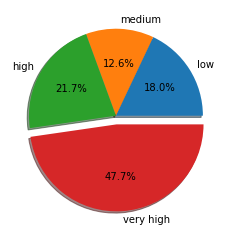
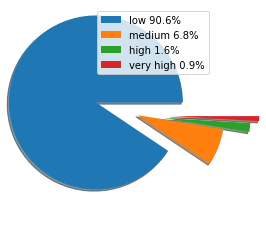
improved exposure section (Ale)

diff --git a/exposure.html b/exposure.html
@@ -5,11 +5,13 @@
 	Free for personal and commercial use under the CCA 3.0 license (html5up.net/license)
 
   TO DO LIST:
-  -change color of the pie plots to match maps
+  -change color of the pie plots to match maps    V
   -change pop map
   -put text conclusions 
   -create fb group page and put reference in each footer
-  -add a legend to the susceptibility reclassified
+  -add a legend to the susceptibility reclassified        V
+  -add a graph near conclusions to show the increasing of low risk population
+  -add popup to show the risk level and the number of people living there
 -->
 <html>
     <head>
@@ -48,9 +50,13 @@
         content="width=device-width, initial-scale=1, user-scalable=no"
       />
       <link rel="stylesheet" href="assets/css/main.css" />
+
+      <!-- my libraries -->
+      <script type="text/javascript" src="myfunctions.js"></script>
     </head>
   <body class="is-preload">
     <div id="page-wrapper">
+
       <!-- Header -->
       <header id="header">
         <div class="logo container">
@@ -99,76 +105,85 @@
                   </header>
 
                   <section>
+                    <div id="ShowLegend" style="width: 100%; display: none;">
+                      <div style="display: table-row">
+                        <h3 style="width: 600px; display: table-cell;">Reclassified Susceptibility Map<br><br>
+                          <div id="get-susc-legend" ></div></h3>
+                        <h3 style="display: table-cell;">Population Raster<br><br>
+                          <div id="get-pop-legend" ></div></h3>
+                      </div>
+                    </div>
+                    <input id="LegendButton" style="display: block;" type="button" value="Show Legend" onclick="showDiv()"/>
+                    <p></p>
                     <div id="map">
                       <div id="popup"></div>
+                      <script src="exp_map.js"></script>
                     </div>
-                    <script src="exp_map.js"></script>
                       This map contains 2 different layers for each of the two different supsceptibility maps:<br>
                       1)Population raster - shows Tirano's population distribution;<br> 
                       2)Reclassified supsceptibility map - shows the level of landslide risk (ranging from [0, 0.25) = low; [0.25, 0.5) = moderate; [0.5, 0.75) = high; [0.75, 1] = very high).
-                    </p>
                   </section>
 
                   <section>
-                   <h3>1k points map</h3>
-                    <img src="images/pop_plot_1k.png" alt=""
+                   <h3><br>1k points map</h3>
+                    <img src="images/pop_plot_1k.png" alt="1k piechart"
                         />
                      <table>
                      <thead><tr><th title="Field #1">risk level</th>
                      <th title="Field #2">m²</th>
-                     <th title="Field #4">people n°</th>
+                     <th title="Field #3">people n°</th>
                      </tr></thead>
                      <tbody><tr>
                      <td>low</td>
-                     <td>23310798.299</td>
-                     <td align="left">3495</td>
+                     <td>23310798,299</td>
+                     <td>12451</td>
                      </tr>
                      <tr>
                      <td>medium</td>
-                     <td>16387591.250</td>
-                     <td align="left">2457</td>
+                     <td>16387591,250</td>
+                     <td>937</td>
                      </tr>
                      <tr>
                      <td>high</td>
-                     <td>28179720.404</td>
-                     <td align="left">4225</td>
+                     <td>28179720,404</td>
+                     <td>227</td>
                      </tr>
                      <tr>
                      <td>very high</td>
-                     <td>61928687.325</td>
-                     <td align="left">9285</td>
+                     <td>61928687,325</td>
+                     <td>128</td>
                      </tr>
                      </tbody></table>
                     </section>
 
                     <section>
-                     <h3>5k points map</h3>
-                       <img src="images/pop_plot_5k.png" alt=""
+                     <h3><br>5k points map</h3>
+                       <img src="images/pop_plot_5k.png" alt="5k piechart"
                         />
                      <table>
                      <thead><tr><th title="Field #1">risk level</th>
                      <th title="Field #2">m²</th>
-                     <th title="Field #4">people n°</th>
+                     <th title="Field #3">people n°</th>
                      </tr></thead>
                      <tbody><tr>
                      <td>low</td>
-                     <td>42319603.778</td>
-                     <td align="left">6345</td>
+                     <td>42319603,778</td>
+                     <td>13353</td>
                      </tr>
                      <tr>
                      <td>medium</td>
-                     <td>15733955.132</td>
-                     <td align="left">2359</td>
+                     <td>15733955,132</td>
+                     <td>296</td>
                      </tr>
                      <tr>
                      <td>high</td>
-                     <td>24484675.409</td>
-                     <td align="left">3671</td>
+                     <td>24484675,409</td>
+                     <td>68</td>
                      </tr>
                      <tr>
                      <td>very high</td>
-                     <td>47268562.959</td>
-                     <td align="left">7087</td>
+                     <td>47268562,959</td>
+                     <td>25</td>
                      </tr>
                      </tbody></table>
                   </section>

diff --git a/exp_map.js b/exp_map.js
@@ -156,4 +156,5 @@ map.on('pointermove', function(event) {
 	map.getTarget().style.cursor = hit ? 'pointer' : '';
 });
 
-//document.getElementById('get-legend').innerHTML = '<img src='+sup4levels.A.source.getLegendUrl()+'></img >' ;
+document.getElementById('get-susc-legend').innerHTML = '<img src='+reclassified1k.A.source.getLegendUrl()+'></img >' ;
+document.getElementById('get-pop-legend').innerHTML = '<img src='+population.A.source.getLegendUrl()+'></img >' ;

diff --git a/myfunctions.js b/myfunctions.js
@@ -1,0 +1,4 @@
+function showDiv() {
+   document.getElementById('ShowLegend').style.display = "table";
+   document.getElementById('LegendButton').style.display = "none";
+}
